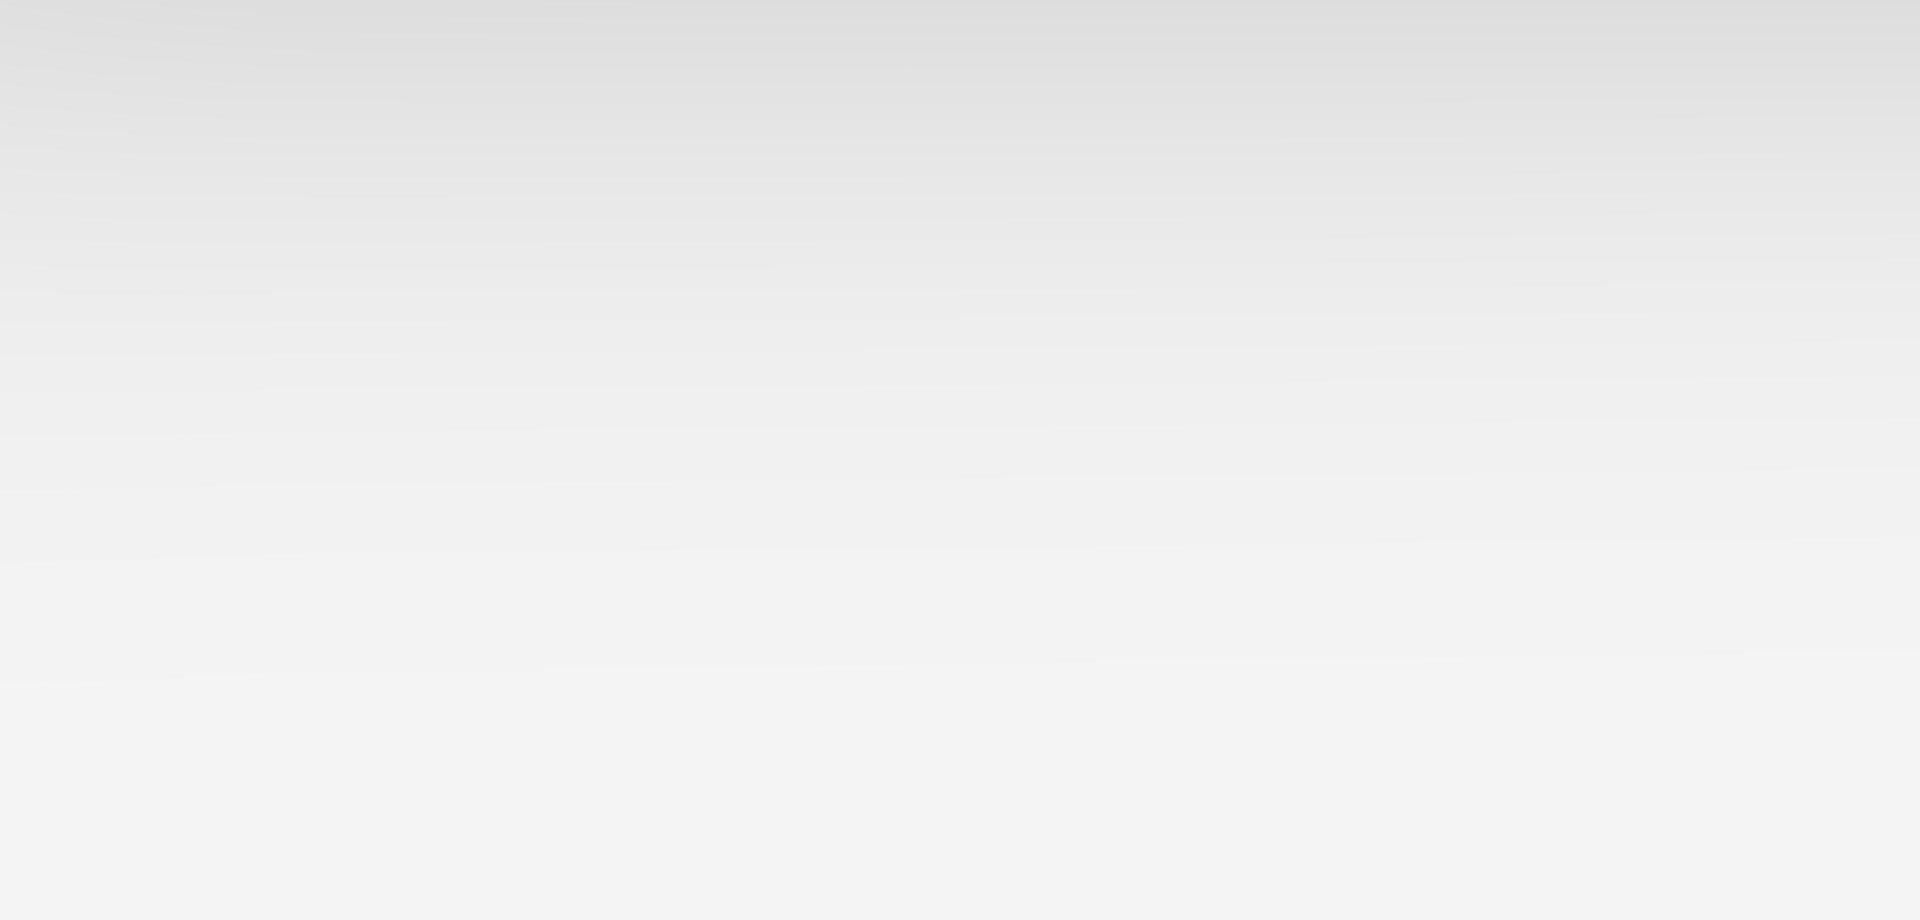
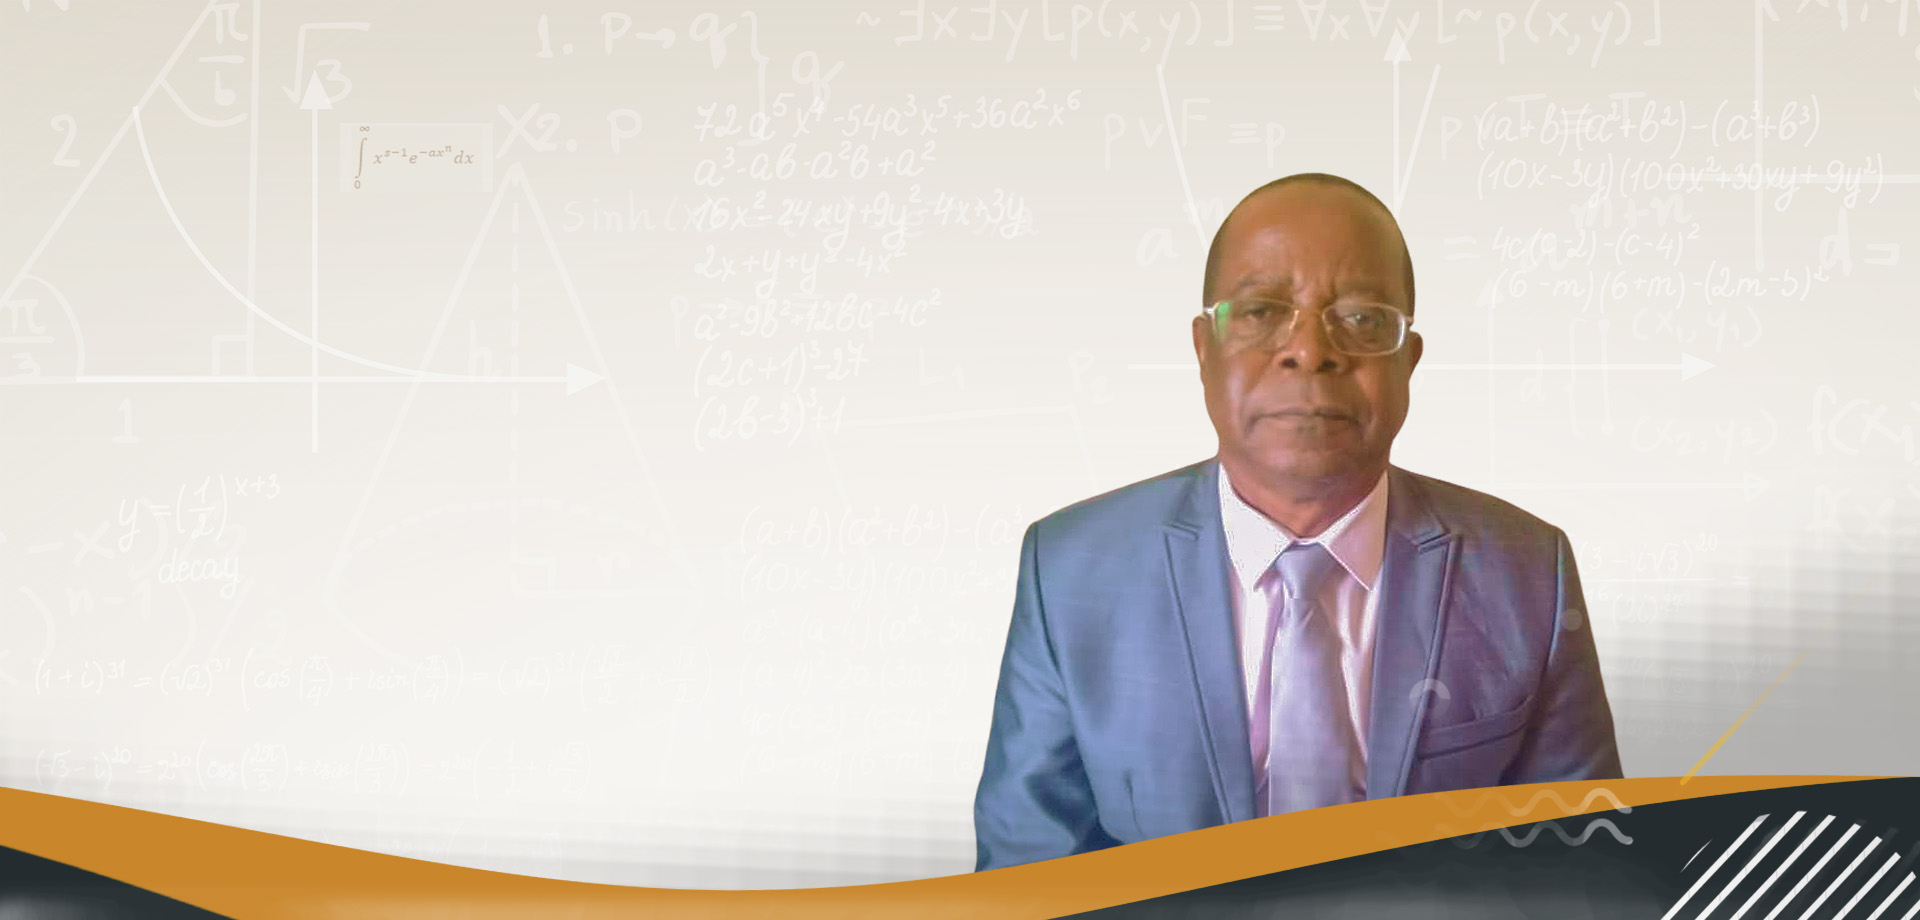
MINOR DETAILS
Added image and downlod cv button edits

Changed region(s): [[0.0, 0.1826, 1.0, 1.0], [0.1875, 0.1522, 0.25, 0.1826]]

diff --git a/index.html b/index.html
@@ -113,7 +113,7 @@
                                       <p> Full Professor of Applied Mathematics.</p>                                
                                    </div>
                                 <div class="tp-caption mfnrs_profile_button rev-btn " id="slide-1-layer-3" data-x="100" data-y="center" data-voffset="100" data-width="['auto']" data-height="['auto']" data-transform_idle="o:1;" data-transform_hover="o:1;rX:0;rY:0;rZ:0;z:0;s:0;e:Linear.easeNone;" data-style_hover="c:rgba(255, 255, 255, 1.00);bg:rgba(0, 0, 0, 1.00);cursor:pointer;" data-transform_in="y:50px;opacity:0;s:1100;e:Power2.easeInOut;" data-transform_out="opacity:0;s:300;s:300;" data-start="500" data-splitin="none" data-splitout="none" data-actions='[{"event":"click","action":"simplelink","target":"_self","url":"#"}]' data-responsive_offset="on" style="z-index: 7; white-space: nowrap;padding:15px 30px 15px 30px;outline:none;box-shadow:none;box-sizing:border-box;-moz-box-sizing:border-box;-webkit-box-sizing:border-box;">
-                                        ABOUT ME
+                                        DOWNLOAD CV
                                     </div>
                                 </li>
                             </ul>
